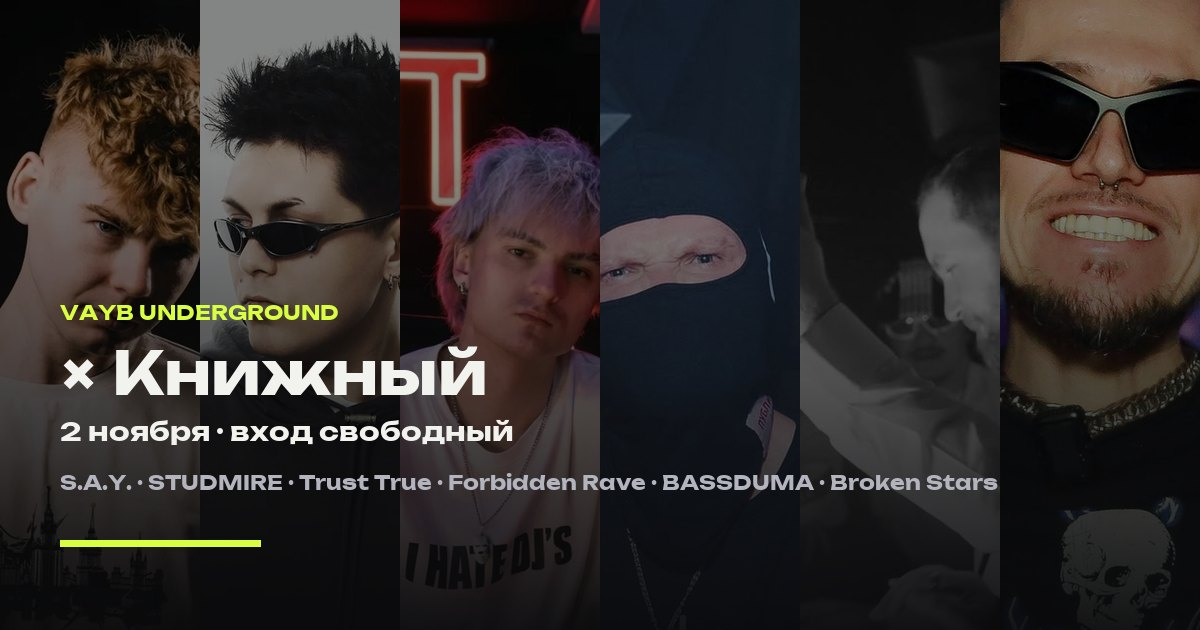
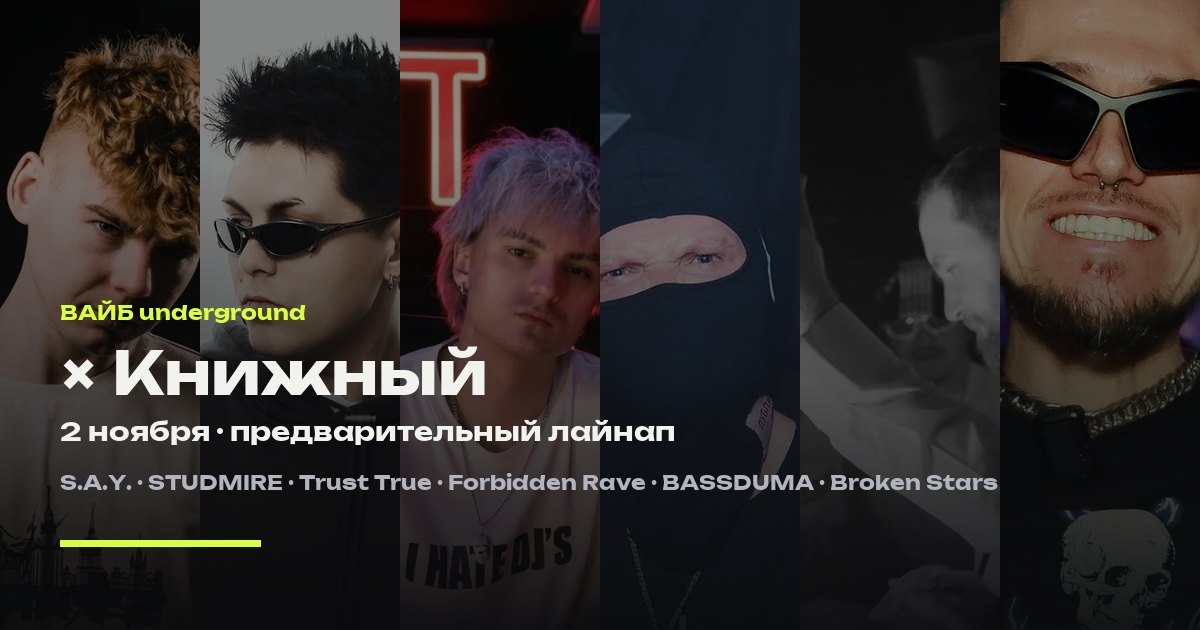
Страница ивента 2026-09-16 17:26

Changed region(s): [[0.185, 0.6635, 0.5858, 0.7238], [0.0308, 0.4825, 0.2775, 0.5127]]

diff --git a/index.html b/index.html
@@ -3,10 +3,10 @@
 <head>
 <meta charset="utf-8">
 <meta name="viewport" content="width=device-width, initial-scale=1">
-<title>VAYB Underground × Книжный · 2 ноября</title>
-<meta name="description" content="Предварительный лайнап VAYB Underground для Книжного: кто это и зачем они в составе.">
+<title>ВАЙБ underground × Книжный · 2 ноября</title>
+<meta name="description" content="Предварительный лайнап ВАЙБ underground для Книжного: кто это и зачем они в составе.">
 <meta property="og:type" content="website">
-<meta property="og:title" content="VAYB Underground × Книжный · 2 ноября">
+<meta property="og:title" content="ВАЙБ underground × Книжный · 2 ноября">
 <meta property="og:description" content="S.A.Y., STUDMIRE, Trust True, Forbidden Rave, BASSDUMA, Broken Stars. Предварительный лайнап, обсуждаем.">
 <meta property="og:image" content="https://andrewkireev.github.io/vayb-underground/img/og.jpg">
 <meta property="og:url" content="https://andrewkireev.github.io/vayb-underground/">
@@ -33,7 +33,7 @@ img{max-width:100%;display:block}
 /* top bar */
 .top{display:flex;justify-content:space-between;align-items:center;padding:18px 0;border-bottom:1px solid var(--line)}
 .brand{font-family:var(--head);font-weight:800;font-size:14px;letter-spacing:.08em;text-transform:uppercase}
-.brand span{color:var(--acid)}
+.brand span{color:var(--acid);text-transform:none;letter-spacing:.02em}
 .top .date{font-family:var(--head);font-size:12px;letter-spacing:.12em;text-transform:uppercase;color:var(--muted)}
 
 /* hero */
@@ -103,14 +103,14 @@ footer a{color:var(--muted)}
 <body>
 <div class="wrap">
   <header class="top">
-    <div class="brand">VAYB <span>Underground</span></div>
+    <div class="brand">ВАЙБ <span>underground</span></div>
     <div class="date">Книжный · 2 ноября</div>
   </header>
 
   <div class="hero">
     <div class="eyebrow">Предварительный лайнап</div>
     <h1>Часть артистов московской <em>техно-рейв</em> тусовки</h1>
-    <p class="lead">VAYB Underground - лейбл и вечеринки Эндрю Брайта. Ниже по каждому имени: кто это, что за ним стоит и зачем он в этом составе. Это первый вариант, состав обсуждаем.</p>
+    <p class="lead">ВАЙБ underground - лейбл и вечеринки саунд-продюсера и диджея Эндрю Брайта. Ниже по каждому имени: кто это, что за ним стоит и зачем он в этом составе. Это первый вариант, состав обсуждаем.</p>
     <div class="stats">
       <div class="stat"><div class="n">260 тыс.</div><div class="l">слушателей в месяц на Яндекс Музыке у трёх артистов лайнапа</div></div>
       <div class="stat"><div class="n">1,7 млн</div><div class="l">просмотров у лучшего рилза Forbidden Rave про московский рейв</div></div>
@@ -198,10 +198,10 @@ footer a{color:var(--muted)}
         <div class="body">
           <h3>Broken Stars</h3>
           <div class="genre">hard techno · bass · брейкбит</div>
-          <p>Эндрю Брайт, основатель лейбла VAYB Underground и школы электронной музыки VAYB.PRO. Релизы на VAYB Underground, SVODKA и Mystic Sound. Совместные треки с Ra Djan («Prey»), STUDMIRE и Blessna («Не знаешь слов»), ремикс на PODLESNOV из BLAASH.</p>
+          <p>Эндрю Брайт, основатель лейбла ВАЙБ underground и школы электронной музыки VAYB.PRO. Релизы на ВАЙБ underground, SVODKA и Mystic Sound. Совместные треки с Ra Djan («Prey»), STUDMIRE и Blessna («Не знаешь слов»), ремикс на PODLESNOV из BLAASH.</p>
           <div class="pitch"><b>Зачем зовём</b>Собирает лайнап и отвечает за вечер. Открывает или закрывает ночь, представляет лейбл, на связи с клубом по всем вопросам.</div>
-          <div class="chips"><span class="chip">лейбл VAYB Underground</span><span class="chip">школа VAYB.PRO</span></div>
-          <div class="links"><a href="https://music.yandex.ru/artist/5850825" target="_blank" rel="noopener">Яндекс Музыка</a><a href="https://www.instagram.com/vayb_underground/" target="_blank" rel="noopener">VAYB Underground</a><a href="https://vayb.pro/" target="_blank" rel="noopener">VAYB.PRO</a></div>
+          <div class="chips"><span class="chip">лейбл ВАЙБ underground</span><span class="chip">школа VAYB.PRO</span></div>
+          <div class="links"><a href="https://music.yandex.ru/artist/5850825" target="_blank" rel="noopener">Яндекс Музыка</a><a href="https://www.instagram.com/vayb_underground/" target="_blank" rel="noopener">ВАЙБ underground</a><a href="https://vayb.pro/" target="_blank" rel="noopener">VAYB.PRO</a></div>
         </div>
       </article>
 
@@ -210,13 +210,13 @@ footer a{color:var(--muted)}
 
   <section id="deal">
     <div class="contact">
-      <div class="who">Эндрю Брайт<small>VAYB Underground · Broken Stars</small></div>
+      <div class="who">Эндрю Брайт<small>ВАЙБ underground · Broken Stars</small></div>
       <a class="btn" href="https://t.me/andrew_bright_stars" target="_blank" rel="noopener">Написать в Telegram</a>
     </div>
   </section>
 
   <footer>
-    <div>VAYB Underground · лейбл и вечеринки · Москва</div>
+    <div>ВАЙБ underground · лейбл и вечеринки · Москва</div>
     <div><a href="https://www.instagram.com/vayb_underground/" target="_blank" rel="noopener">@vayb_underground</a></div>
   </footer>
 </div>
